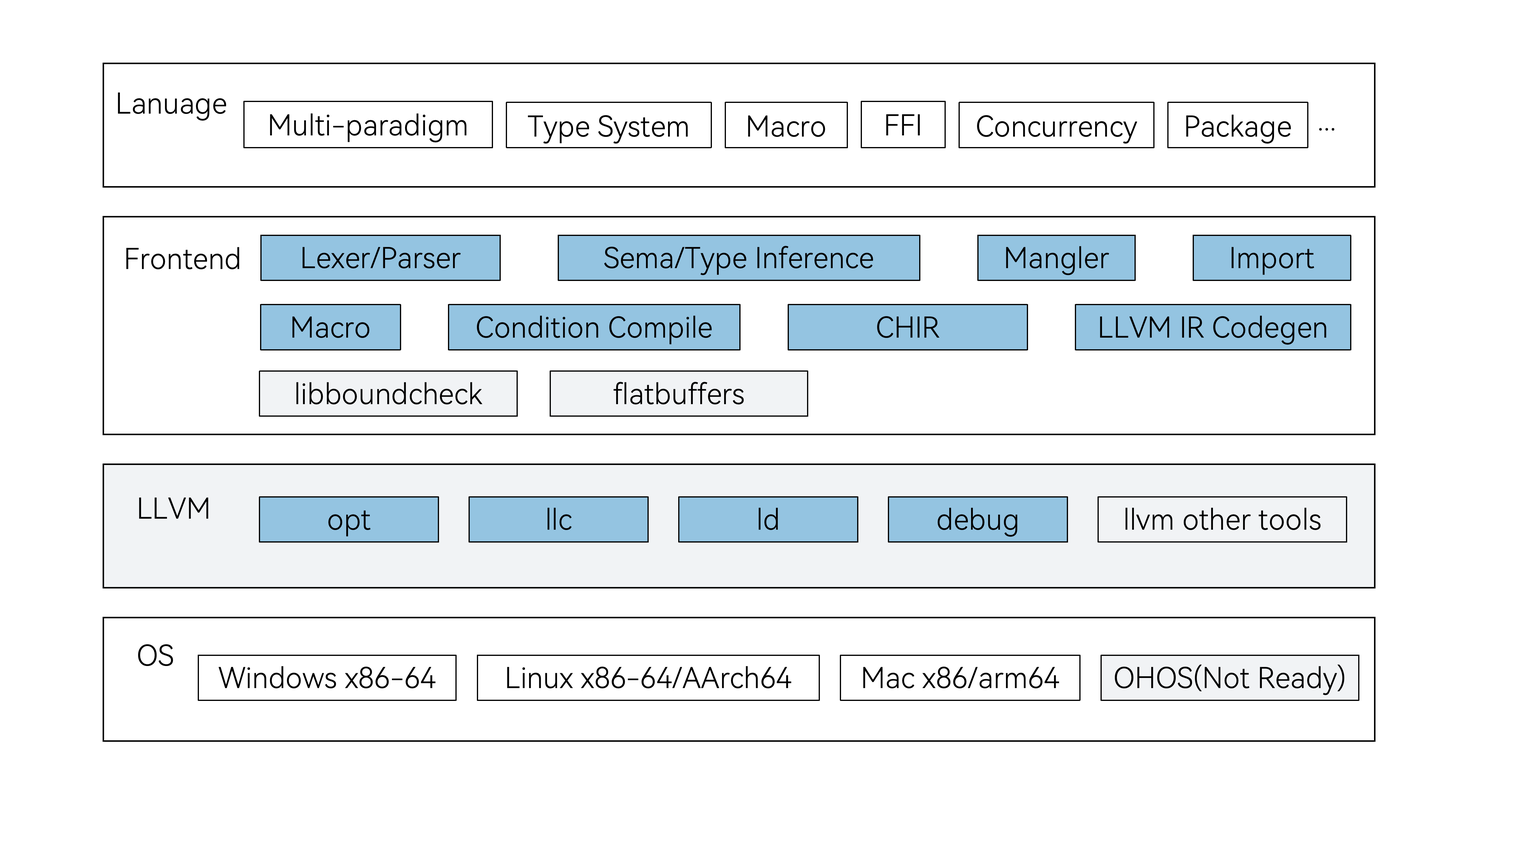
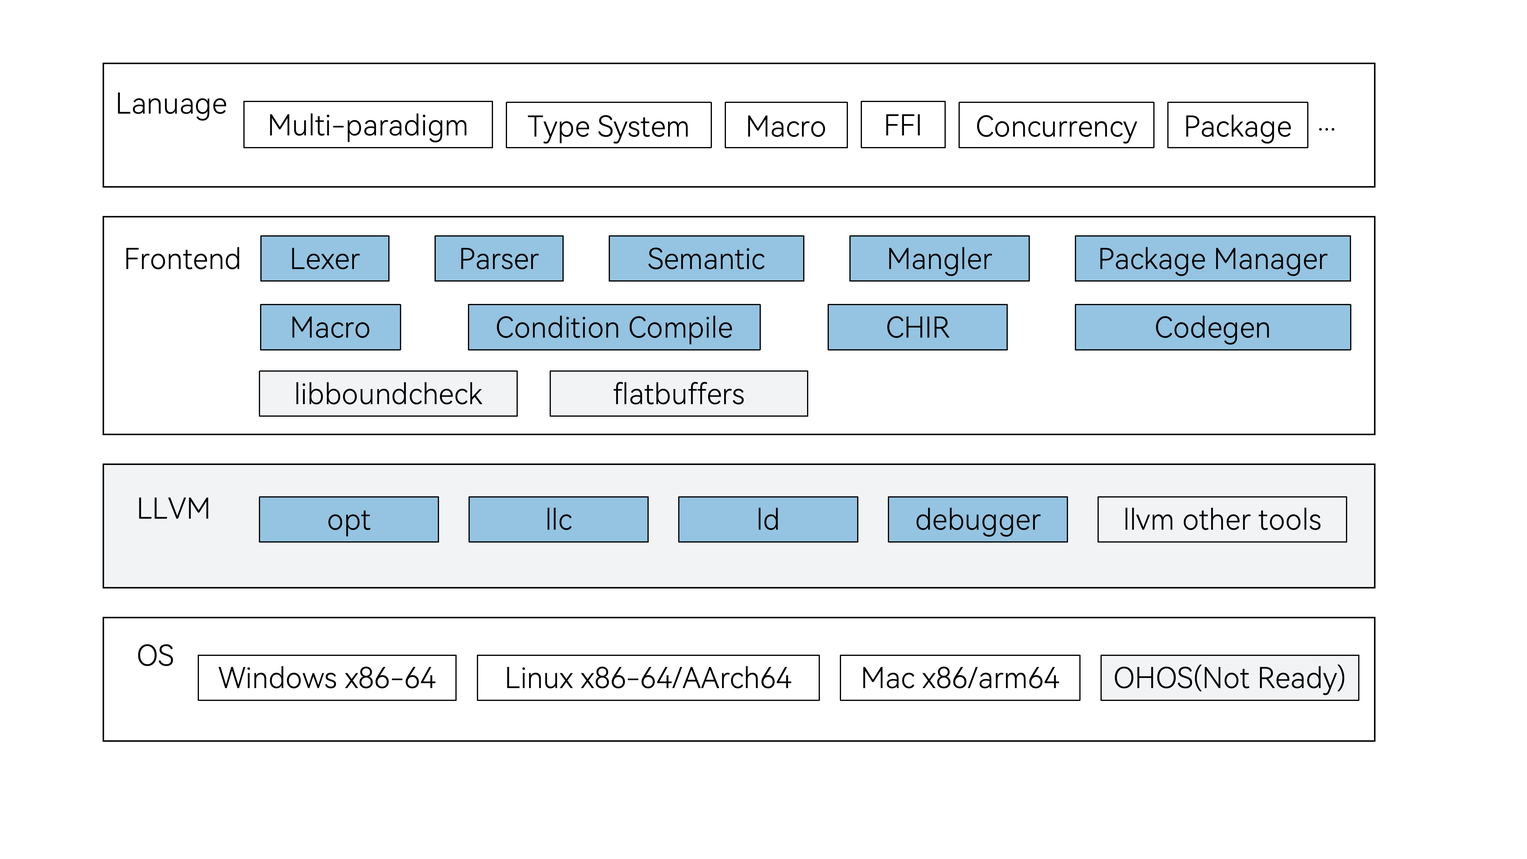
doc: update atch diagram and desc

Changed region(s): [[0.1875, 0.25, 0.875, 0.4062], [0.7188, 0.375, 0.875, 0.4062], [0.5938, 0.5938, 0.6875, 0.625]]

diff --git a/README.md b/README.md
@@ -2,100 +2,102 @@
 
 ## Introduction
 
-Cangjie is a general-purpose programming language designed for all-scenario application development. It balances development efficiency and runtime performance, providing an excellent programming experience. Cangjie features concise and efficient syntax, multi-paradigm programming, and type safety. For more information, please refer to the [Cangjie Language Developer Guide](https://cangjie-lang.cn/docs?url=%2F1.0.0%2Fuser_manual%2Fsource_zh_cn%2Ffirst_understanding%2Fbasic.html) and the [Cangjie Programming Language White Paper](https://cangjie-lang.cn/docs?url=%2F0.53.18%2Fwhite_paper%2Fsource_zh_cn%2Fcj-wp-abstract.html).
+Cangjie is a general-purpose programming language designed for all-scenario application development, balancing development efficiency and runtime performance while providing a great programming experience. Cangjie features concise and efficient syntax, multi-paradigm programming, and type safety. For more information, please refer to the [Cangjie Language Development Guide](https://cangjie-lang.cn/docs?url=%2F1.0.0%2Fuser_manual%2Fsource_zh_cn%2Ffirst_understanding%2Fbasic.html) and the [Cangjie Programming Language White Paper](https://cangjie-lang.cn/docs?url=%2F0.53.18%2Fwhite_paper%2Fsource_zh_cn%2Fcj-wp-abstract.html).
 
-This repository provides the source code of the Cangjie compiler, comprises two parts: the compiler frontend and the modified open-source LLVM components. The latter includes the LLVM compiler backend, the opt optimizer, llc, the ld linker, and debuggers etc. For dependencies related to open-source LLVM components, please refer to the [Third-Party Library Patch Documentation](./third_party/README.md). The overall architecture is shown in the following diagram:
+This repository provides the source code for the Cangjie compiler, which consists of two main parts: the compiler frontend and modified open-source LLVM components. The latter includes the LLVM backend, opt optimizer, llc, ld linker, and debugger. For details on third-party dependencies, see the [Third-Party Library Patch Documentatio](./third_party/README.md). The overall architecture is shown below:
 
 ![Architecture Diagram](figures/Compiler_Architecture_Diagram.png)
 
-**Architecture Diagram Description**
+**Architecture Description**
 
-- **Compiler Frontend**: Responsible for converting Cangjie source code from text to intermediate representation, covering lexical, syntax, macro, and semantic analysis to ensure the correctness of code structure and semantics, and preparing for backend code generation. This module relies on mingw-w64 to support Windows platform's Cangjie capability, enabling it to generate final executable binaries for users that can call Windows APIs. It also depends on libboundscheck to provide secure function library access.
+- **Compiler Frontend**: Responsible for converting Cangjie source code from text to intermediate representation, including lexical, syntax, macro, and semantic analysis, ensuring code structure and semantics are correct, and preparing for backend code generation. This module depends on mingw-w64 to support Windows platform capabilities, enabling users to generate executable binaries that can call Windows APIs. It also relies on libboundscheck for safe function library access.
 
-    - **Lex/Parse**: Breaks down Cangjie source code into meaningful tokens, constructs an abstract syntax tree (AST) from the token sequence according to Cangjie grammar rules, reflecting the program structure.
+    - **Lexer** breaks down Cangjie source code into meaningful tokens.
 
-    - **Sema/Type Infer**: Performs type checking, scope analysis, etc. on the AST to ensure the correctness of program semantics.
+    - **Parser** builds an Abstract Syntax Tree (AST) according to Cangjie grammar rules to reflect program structure.
 
-    - **Mangle**: Responsible for performing name mangling on Cangjie symbols, and also includes a demangler tool for reverse parsing.
+    - **Semantic** performs type checking, type inference, and scope analysis on the AST to ensure semantic correctness.
 
-    - **Package Manage**: Manages and loads code modules, handles dependencies and namespace isolation, and supports collaborative development across multiple modules.
+    - **Mangler** handles symbol name mangling for Cangjie, and includes a demangler tool for reverse parsing.
 
-    - **Macro Expand**: Processes macro definitions and macro calls in the code to achieve code generation and reuse.
+    - **Package Management** manages and loads code modules, handles dependencies and namespace isolation, and supports multi-module collaborative development. This module uses the flatbuffer library for serialization and deserialization.
 
-    - **Condition/Incr Compile**: Condition compilation allows for building code based on predefined or user-defined conditions, while incremental compilation can accelerate the current build speed by leveraging cached files from previous compilations.
+    - **Macro** handles macro expansion, processing macro definitions and calls for code generation and reuse.
 
-    - **CHIR**: Converts the AST into the compiler's intermediate representation for optimization and backend processing.
+    - **Condition Compile**: Conditional compilation allows compiling based on predefined or custom conditions; incremental compilation speeds up builds using previous compilation cache files.
 
-    - **LLVM IR Codegen**: Translates the intermediate representation (CHIR) into LLVM IR, preparing to generate target machine code (LLVM BitCode).
+    - **CHIR**: CHIR (Cangjie High Level IR) converts the AST to an intermediate representation and performs optimizations.
 
-- **LLVM**: receives the intermediate representation generated by the frontend, performs optimization, generates target platform machine code, and integrates it into executable files through the linker.
+    - **Codegen**: Translates the intermediate representation (CHIR) to LLVM IR, preparing for target machine code (LLVM BitCode) generation.
 
-    - **Opt**: Performs various optimizations on LLVM IR, such as constant folding and loop optimization, to improve the execution efficiency and quality of the generated code.
+- **LLVM**: Includes the compiler backend and related LLVM toolchain. The backend receives the intermediate representation from the frontend, optimizes it, generates target platform machine code, and links it into executable files.
 
-    - **llc**: Converts the optimized LLVM IR into target platform machine code, adapting to different hardware architectures.
+    - **opt**: Performs various optimizations on LLVM IR, such as constant folding and loop optimization, to improve code efficiency and quality.
 
-    - **ld**: Links multiple object files and dependent libraries into the final executable, resolves symbol references, and generates deployable program.
+    - **llc**: Converts optimized LLVM IR to target platform machine code, supporting different hardware architectures.
 
-    - **debugger**: Provides debugging capabilities related to the Cangjie language.
+    - **ld**: Links multiple object files and libraries into the final executable, resolving symbol references and generating deployable program artifacts.
 
-For other toolchains of LLVM and more detailed descriptions of backend tools, please refer to the [LLVM Command Guide](https://llvm.org/docs/CommandGuide/).
+    - **debugger**: Provides debugging capabilities for the Cangjie language.
 
-- **OS**: The Cangjie Compiler and related toolchains currently support running on the following platforms: Windows x86-64, Linux x86-64/AArch64, and macOS x86_64/arm64. Support for the OpenHarmonyOS platform is under development. In addition to natively compiling outputs for the aforementioned platforms, the Cangjie Compiler also supports cross-compiling to generate binary outputs for the ohos-aarch64 platform. For details, please refer to the [Cangjie SDK Integration and Build Guide](https://gitcode.com/Cangjie/cangjie_build).
+For more details on the LLVM toolchain and backend tools, refer to the [LLVM Command Guide](https://llvm.org/docs/CommandGuide/).
+
+- **OS**: The Cangjie compiler and LLVM toolchain currently support Windows x86-64, Linux x86-64/AArch64, and Mac x86/arm64. HarmonyOS support is under development. In addition to native compilation, the Cangjie compiler supports cross-compiling binaries for the ohos-aarch64 platform. For details, see the Cangjie SDK Integration and Build Guide](https://gitcode.com/Cangjie/cangjie_build).
 
 ## Directory Structure
 
 ```text
 cangjie_compiler/
-├── cmake                       # CMake folder for build helper scripts
+├── cmake                       # CMake scripts for build assistance
 ├── demangler                   # Symbol demangling
-├── doc                         # documentations
-├── figures                     # figures for documentations
+├── doc                         # Documentation
+├── figures                     # Documentation images
 ├── include                     # Header files
-├── integration_build           # Cangjie SDK Integration Build Script
-├── schema                      # FlatBuffers Schema serialization data structure files
+├── integration_build           # Cangjie SDK integration build scripts
+├── schema                      # FlatBuffers schema files for serialization
 ├── src                         # Compiler source code
-│   ├── AST                     # Abstract Syntax Tree components
-│   ├── Basic                   # Basic compiler components
-│   ├── CHIR                    # Compiler intermediate representation, optimization and analysis
-│   ├── CodeGen                 # Code generation, translates CHIR to LLVMIR
+│   ├── AST                     # Abstract Syntax Tree
+│   ├── Basic                   # Compiler basic components
+│   ├── CHIR                    # Intermediate representation and optimization
+│   ├── CodeGen                 # Code generation (CHIR to LLVM IR)
 │   ├── ConditionalCompilation  # Conditional compilation
-│   ├── Driver                  # Compiler driver, launches frontend and invokes backend commands
-│   ├── Frontend                # Compiler instance class, organizes compilation process
-│   ├── FrontendTool            # Compiler instance class for external tools
+│   ├── Driver                  # Compiler driver (frontend/backend orchestration)
+│   ├── Frontend                # Compiler instance and workflow
+│   ├── FrontendTool            # Compiler instance for external tools
 │   ├── IncrementalCompilation  # Incremental compilation
 │   ├── Lex                     # Lexical analysis
 │   ├── Macro                   # Macro expansion
 │   ├── main.cpp                # Compiler entry point
 │   ├── Mangle                  # Symbol mangling
-│   ├── MetaTransformation      # Metaprogramming compiler plugins
-│   ├── Modules                 # Package management module
-│   ├── Option                  # Compiler options control
+│   ├── MetaTransformation      # Metaprogramming plugins
+│   ├── Modules                 # Module management
+│   ├── Option                  # Compiler options
 │   ├── Parse                   # Syntax analysis
 │   ├── Sema                    # Semantic analysis
-│   └── Utils                   # Common utilities
+│   └── Utils                   # Utilities
 ├── third_party                 # Third-party build scripts and patch files
-│   ├── cmake                   # Third-party CMake helper scripts
-│   ├── llvmPatch.diff          # LLVM backend patch file, includes LLVM and cjdb source
-│   └── flatbufferPatch.diff    # FlatBuffers source patch file
-├── unittests                   # Unit Test Cases
-└── utils                       # Compiler-related utilities
+│   ├── cmake                   # Third-party CMake scripts
+│   ├── llvmPatch.diff          # LLVM backend patch (includes llvm and cjdb sources)
+│   └── flatbufferPatch.diff    # Flatbuffer source patch
+├── unittests                   # Unit tests
+└── utils                       # Auxiliary tools
 ```
 
 ## Constraints
 
-Building the Cangjie compiler is supported on Ubuntu/MacOS (x86_64, aarch64) environments. For more details on environment and tool dependencies, please refer to the [Build Dependency Tools](https://gitcode.com/Cangjie/cangjie_build/blob/dev/docs/env_zh.md).
+Supports building the Cangjie compiler on Ubuntu/MacOS (x86_64, aarch64). For detailed environment and tool dependencies, see [Build Dependency Tools](https://gitcode.com/Cangjie/cangjie_build/blob/dev/docs/env_zh.md).
 
 ## Building from Source
 
 > **Note:**
 >
-> This section describes how to build the Cangjie compiler from source. If you want to use the Cangjie compiler to compile Cangjie source code or projects, please skip this section and go to the [Cangjie Official Download Page](https://cangjie-lang.cn/download) to get the release package, or refer to the [Integration Build Guide](#integration-build-guide) for integrated builds.
+> This section describes how to build the Cangjie compiler from source. If you only want to use the compiler to build Cangjie code or projects, skip this section and download the release package from the [official website](https://cangjie-lang.cn/download) or refer to the [Integration Build Guide](#integration-build-guide).
 
 ### Preparation
 
-For environment requirements and software dependencies on each platform, please refer to the [Standalone Build Guide](doc/Standalone_Build_Guide.md).
+For environment requirements and software dependencies on each platform, see the [Standalone Build Guide](doc/Standalone_Build_Guide.md).
 
-Download the source code:
+Clone the source code:
 
 ```shell
 git clone https://gitcode.com/Cangjie/cangjie_compiler.git -b main;
@@ -110,43 +112,43 @@ python3 build.py build -t release
 python3 build.py install
 ```
 
-1. The `clean` command clears temporary files in the workspace.
-2. The `build` command starts compilation. The `-t` or `--build-type` option specifies the build type, which can be `release`, `debug` or `relwithdebinfo`.
+1. The `clean` command removes temporary files from the workspace.
+2. The `build` command starts compilation. The `-t` or `--build-type` option specifies the build type: `release`, `debug`, or `relwithdebinfo`.
 3. The `install` command installs the build artifacts to the `output` directory.
 
-The `output` directory structure is as follows:
+The `output` directory structure:
 
 ```text
 ./output
 ├── bin
-│   ├── cjc                 # Cangjie compiler executable
-│   └── cjc-frontend -> cjc # Cangjie compiler frontend executable
-├── envsetup.sh             # One-click environment variable setup script
-├── include                 # Public header files for the frontend
-├── lib                     # Libraries required by the Cangjie build, subfolders by target platform
-├── modules                 # Reserved folder for Cangjie standard library cjo files, subfolders by target platform
-├── runtime                 # Runtime libraries required by the Cangjie build
-├── third_party             # Third-party binaries and libraries such as LLVM
-└── tools                   # Cangjie tools folder
+│   ├── cjc                 # Cangjie compiler executable
+│   └── cjc-frontend -> cjc # Cangjie compiler frontend executable (symlink)
+├── envsetup.sh             # Environment setup script
+├── include                 # Public headers for the frontend
+├── lib                     # Compiler libraries (by target platform)
+├── modules                 # Standard library cjo files (by target platform)
+├── runtime                 # Runtime libraries
+├── third_party             # Third-party binaries and libraries (e.g., LLVM)
+└── tools                   # Cangjie tools
 ```
 
-On Linux, you can apply the cjc environment with `source ./output/envsetup.sh`, and check the current compiler version and platform info with `cjc -v`:
+On Linux, run `source ./output/envsetup.sh` to set up the environment, then use `cjc -v` to check the compiler version and platform info:
 
 ```shell
 source ./output/envsetup.sh
 cjc -v
 ```
 
-Output as follows:
+Example output:
 
 ```text
 Cangjie Compiler: x.xx.xx (cjnative)
 Target: xxxx-xxxx-xxxx
 ```
 
-### Running unittest test cases
+### Run Unittest
 
-Unit test cases are built by default during the build process. After a successful build, you can verify them with the following command:
+Unit tests are built by default. After a successful build, run:
 
 ```shell
 python3 build.py test
@@ -166,6 +168,10 @@ For more platform-specific build information, see the [Standalone Build Guide](d
 
 For integration builds, please refer to the [Cangjie SDK Integration Build Guide](https://gitcode.com/Cangjie/cangjie_build/blob/dev/README_zh.md).
 
+## License
+
+This project is licensed under [Apache-2.0 with Runtime Library Exception](./LICENSE). Feel free to use and contribute!
+
 ## Related Repositories
 
 - [cangjie_docs](https://gitcode.com/Cangjie/cangjie_docs/tree/main/docs/dev-guide)
@@ -177,14 +183,15 @@ For integration builds, please refer to the [Cangjie SDK Integration Build Guide
 
 ## Open Source Software Statement
 
-| Software Name       | License                              | Usage Description                                                                                                                                                                | Main Component                | Usage Method                                                         |
-|---------------------|--------------------------------------|----------------------------------------------------------------------------------------------------------------------------------------------------------------------------------|-------------------------------|----------------------------------------------------------------------|
-| mingw-w64           | Zope Public License V2.1             | The Cangjie Windows SDK includes some static libraries from Mingw, which are linked with Cangjie-generated object files to produce final executables that can call Windows APIs. | Compiler                      | Integrated into the Cangjie binary release                           |
-| LLVM                | Apache 2.0 with LLVM Exception       | The Cangjie compiler backend is developed based on LLVM.                                                                                                                         | Compiler                      | Integrated into the Cangjie binary release                           |
-| flatbuffers         | Apache License V2.0                  | Cangjie's cjo files and macro implementations rely on this software for serialization and deserialization.                                                                       | Compiler & StdLib (std.ast)   | Integrated into the Cangjie binary release                           |
-| libboundscheck      | Mulan Permissive Software License V2 | Related code in the compiler, standard library, and extension library is implemented based on this software.                                                                     | Compiler, StdLib, Extension   | Integrated into the Cangjie binary release                           |
+| Software Name       | License                              | Usage Description                                                                                                                       | Main Component              | Usage Methods                               |
+|---------------------|--------------------------------------|-----------------------------------------------------------------------------------------------------------------------------------------|-----------------------------|---------------------------------------------|
+| mingw-w64           | Zope Public License V2.1             | The Cangjie Windows SDK includes some static libraries from Mingw, linked with Cangjie-generated objects to produce Windows executables | Compiler                    | Integrated into the Cangjie binary release  |
+| LLVM                | Apache 2.0 with LLVM Exception       | Cangjie compiler backend is based on LLVM.                                                                                              | Compiler                    | Integrated into the Cangjie binary release  |
+| flatbuffers         | Apache License V2.0                  | Used for serialization/deserialization of cjo files and macros                                                                          | Compiler & StdLib(std.ast)  | Integrated into the Cangjie binary release  |
+| libboundscheck      | Mulan Permissive Software License V2 | Used for safe function implementations in the compiler and related code                                                                 | Compiler, StdLib, Extension | Integrated into the Cangjie binary release  |
 
-For information on the usage of mingw-w64 and other build dependencies, please refer to [Build Dependency Tools](https://gitcode.com/Cangjie/cangjie_build/blob/dev/docs/env_zh.md) and [Cangjie SDK Integration and Build Guide](https://gitcode.com/Cangjie/cangjie_build/blob/dev/README_zh.md).
+For details on mingw-w64 and other build dependencies, see [Build Dependencies](https://gitcode.com/Cangjie/cangjie_build/blob/dev/docs/env_zh.md) and the [Cangjie SDK Integration Build Guide](https://gitcode.com/Cangjie/cangjie_build/blob/dev/README_zh.md).
+
 ## Contribution
 
 We welcome contributions from developers in any form, including but not limited to code, documentation, issues, and more.

diff --git a/README_zh.md b/README_zh.md
@@ -12,9 +12,11 @@
 
 - **前端**：负责将仓颉源码从文本转换为中间表示，涵盖词法、语法、宏、语义等分析，确保代码结构和语义正确，为后端生成目标代码做好准备。此模块依赖 mingw-w64 用以支持 Windows 平台仓颉能力，为用户生成最终的可以调用 Windows API 的可执行二进制文件。同时依赖 libboundscheck 提供安全函数库访问。
 
-    - **词法/语法分析**将仓颉源码分解为有意义的记号，之后根据仓颉语法规则，将记号序列构建为抽象语法树（AST），反映程序结构。
+    - **词法分析**将仓颉源码分解为有意义的记号。
 
-    - **语义分析/类型推断**对 AST 进行类型检查、类型推断、作用域分析等，确保程序语义正确。
+    - **语法分析**根据仓颉语法规则，将记号序列构建为抽象语法树（AST），反映程序结构。
+
+    - **语义分析**对 AST 进行类型检查、类型推断、作用域分析等，确保程序语义正确。
 
     - **名称修饰**负责对仓颉符号进行名称修饰，同时还包含 demangler 反向解析工具。
 
@@ -22,7 +24,7 @@
 
     - **元编程**宏展开处理，处理代码中的宏定义和宏调用，实现代码生成和复用。
 
-    - **条件/增量编译**条件编译可以通过预定义或者自定的条件进行编译，增量编译可基于前次编译缓存文件加快此次编译速度。
+    - **条件编译**条件编译可以通过预定义或者自定的条件进行编译。
 
     - **CHIR 生成及优化**CHIR为 Cangjie High Level IR，此模块将 AST 转换为编译器中间层表示，并进行优化。
 
@@ -166,6 +168,10 @@ python3 build.py --help
 
 集成构建请参阅 [仓颉 SDK 集成构建指导书](https://gitcode.com/Cangjie/cangjie_build/blob/dev/README_zh.md)。
 
+## 开源协议
+
+本项目基于 [Apache-2.0 with Runtime Library Exception](./LICENSE)，请自由地享受和参与开源。
+
 ## 相关仓
 
 - [cangjie_docs](https://gitcode.com/Cangjie/cangjie_docs/tree/main/docs/dev-guide)
@@ -177,7 +183,7 @@ python3 build.py --help
 
 ## 使用的开源软件声明
 
-| 开源软件名称              | 开源许可协议                                      | 使用说明                                                                                      | 使用主体                  | 使用方式                 |
+| 开源软件名称          | 开源许可协议                                      | 使用说明                                                                                      | 使用主体                  | 使用方式                 |
 |---------------------|---------------------------------------------|-------------------------------------------------------------------------------------------|-----------------------|----------------------|
 | mingw-w64           | Zope Public License V2.1                    | 仓颉 Windows 版本 SDK 携带 Mingw 中的部分静态库文件，与仓颉代码生成的目标文件链接在一起，为用户生成最终的可以调用 Windows API 的可执行二进制文件 | 编译器                   | 集成到仓颉二进制发布包中         |
 | LLVM                | Apache 2.0 with LLVM Exception              | 仓颉编译器后端基于 llvm 开发实现                                                                       | 编译器                   | 集成到仓颉二进制发布包中         |
